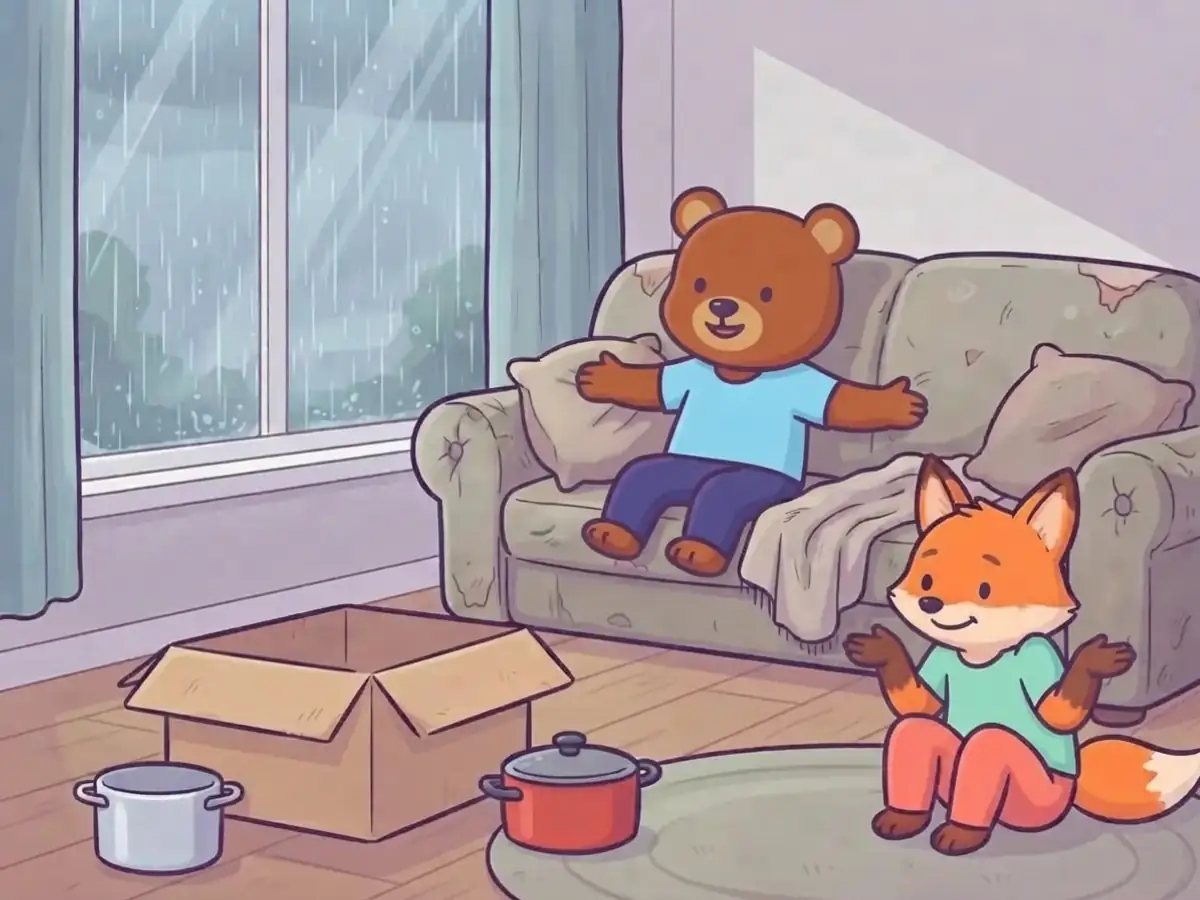
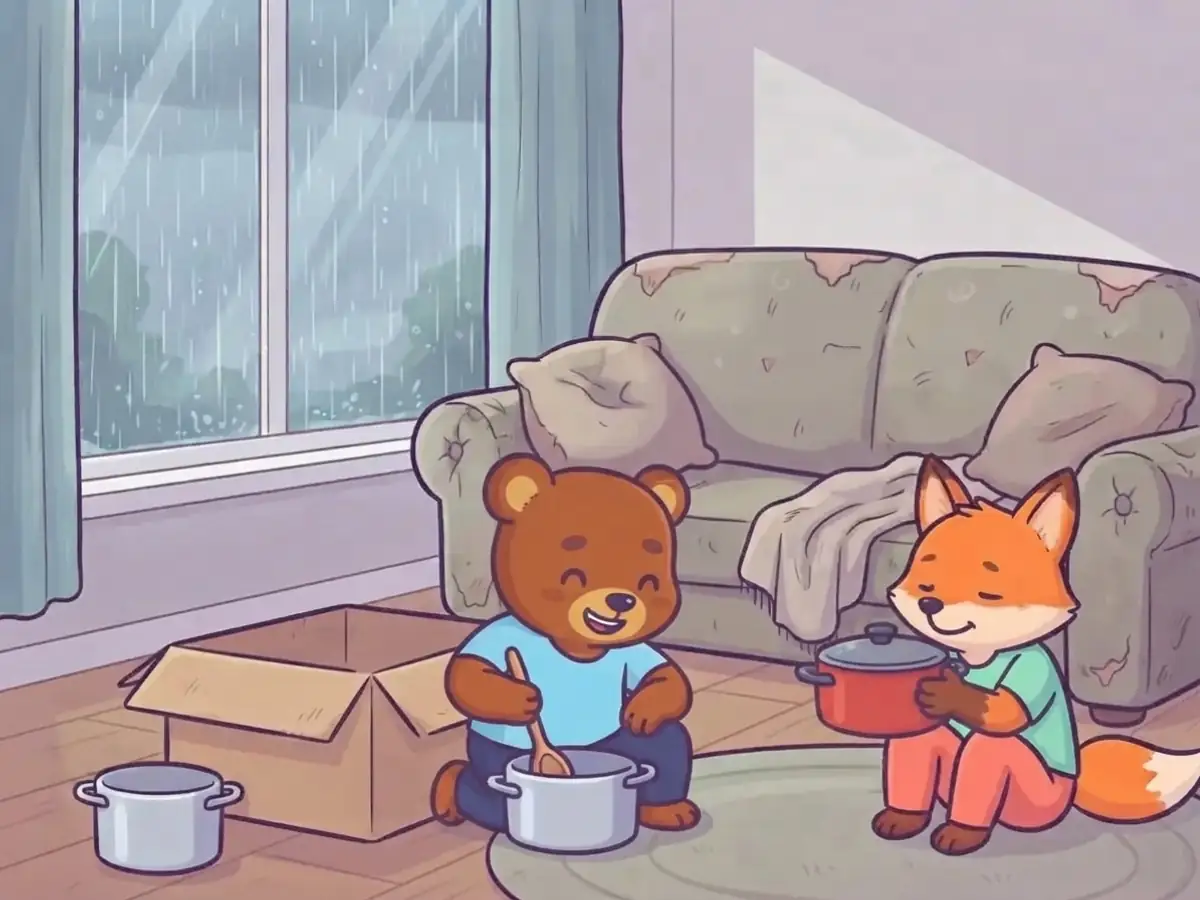
Gefühle: bored on a rainy day starts with cooking a rain soup together with the fox instead of only saying „Mir ist langweilig“
- step 1 is „Mit dem Fuchs Kochen spielen“ with the pots the first picture shows, its picture bored-1 drawn anew;
  the ear-pulling answer and the outro say so; changed lines told in German until translated (step null, outro left out)
- rule: saying a feeling is a good idea only where saying it changes something; where a feeling asks for something to
  do (boredom), the good idea is the doing, best creative play together
- pictures: the Lite model refills a place the prompt calls empty (a third pot three times)

Changed region(s): [[0.3392, 0.1867, 0.7708, 0.9644], [0.6475, 0.5911, 0.9558, 0.84]]

diff --git a/src/games/feelings/kita.hi.ts b/src/games/feelings/kita.hi.ts
@@ -883,12 +883,8 @@ export const SITUATIONS_HI: Partial<Record<SituationId, SituationText>> = {
     caption: "बाहर बारिश हो रही है, भालू को बोरियत हो रही है",
     intro: [{ narration: "बाहर बारिश हो रही है। छोटा भालू सोफ़े पर लेटा है।" }, { narration: "उसे बहुत बोरियत हो रही है!" }],
     steps: [
-      {
-        caption: "“मुझे बोरियत हो रही है” कहना",
-        question: "बारिश हो रही है। छोटा भालू क्या कर सकता है?",
-        beats: [{ narration: "छोटा भालू कहता है:", line: "मुझे बोरियत हो रही है!" }, { line: "मुझे भी। क्या करें?" }],
-        instead: { caption: "लोमड़ी का कान खींचना", answer: "हम्म, इससे लोमड़ी को दर्द होता है। इसकी जगह कहो: मुझे बोरियत हो रही है।" },
-      },
+      // „Mit dem Fuchs Kochen spielen“ is new in German (November 2026): told in German until translated.
+      null,
       {
         caption: "गुफ़ा बनाना",
         question: "अंदर क्या खेल सकते हैं? छोटा भालू क्या कर सकता है?",
@@ -902,7 +898,6 @@ export const SITUATIONS_HI: Partial<Record<SituationId, SituationText>> = {
         instead: { caption: "डिब्बा कुचलना", answer: "हम्म, अब डिब्बा टूट गया। इसकी जगह उससे एक गाड़ी बनाओ।" },
       },
     ],
-    outro: [{ narration: "बहुत बढ़िया! बोरियत से नए खेल बनते हैं। गुफ़ा, गाड़ी, और भी बहुत कुछ।" }],
     endCaption: "भालू और लोमड़ी डिब्बे की गाड़ी चलाते हैं",
   },
   empathy: {

diff --git a/src/games/feelings/kita.ru.ts b/src/games/feelings/kita.ru.ts
@@ -877,12 +877,8 @@ export const SITUATIONS_RU: Partial<Record<SituationId, SituationText>> = {
     caption: "На улице дождь, Мишке скучно",
     intro: [{ narration: "На улице идёт дождь. Мишка лежит на диване." }, { narration: "Ему так скучно!" }],
     steps: [
-      {
-        caption: "Сказать «Мне скучно»",
-        question: "Идёт дождь. Что может сделать Мишка?",
-        beats: [{ narration: "Мишка говорит:", line: "Мне скучно!" }, { line: "Мне тоже. Что будем делать?" }],
-        instead: { caption: "Дёрнуть Лисёнка за ухо", answer: "Хм, Лисёнку больно. Лучше скажи: Мне скучно." },
-      },
+      // „Mit dem Fuchs Kochen spielen“ is new in German (November 2026): told in German until translated.
+      null,
       {
         caption: "Построить шалаш",
         question: "Во что можно играть дома? Что может сделать Мишка?",
@@ -896,7 +892,6 @@ export const SITUATIONS_RU: Partial<Record<SituationId, SituationText>> = {
         instead: { caption: "Растоптать коробку", answer: "Хм, теперь коробка сломалась. Лучше сделай из неё машину." },
       },
     ],
-    outro: [{ narration: "Здорово! Из скуки рождаются идеи. Шалаш, машина и ещё много всего." }],
     endCaption: "Мишка и Лисёнок едут в машине из коробки",
   },
   empathy: {

diff --git a/src/games/feelings/kita.ar.ts b/src/games/feelings/kita.ar.ts
@@ -881,12 +881,8 @@ export const SITUATIONS_AR: Partial<Record<SituationId, SituationText>> = {
     caption: "في الخارج مطر، والدبدوب يشعر بالملل",
     intro: [{ narration: "في الخارج تمطر. الدبدوب مستلقٍ على الكنبة." }, { narration: "إنه يشعر بملل شديد!" }],
     steps: [
-      {
-        caption: "قول «أشعر بالملل»",
-        question: "إنها تمطر. ماذا يستطيع الدبدوب أن يفعل؟",
-        beats: [{ narration: "الدبدوب يقول:", line: "أشعر بالملل!" }, { line: "وأنا أيضًا. ماذا نفعل؟" }],
-        instead: { caption: "شدّ أذن الثعلب الصغير", answer: "همم، هذا يؤلم الثعلب الصغير. الأفضل أن يقول: أشعر بالملل." },
-      },
+      // „Mit dem Fuchs Kochen spielen“ is new in German (November 2026): told in German until translated.
+      null,
       {
         caption: "بناء كهف",
         question: "ماذا نلعب في الداخل؟ ماذا يستطيع الدبدوب أن يفعل؟",
@@ -900,7 +896,6 @@ export const SITUATIONS_AR: Partial<Record<SituationId, SituationText>> = {
         instead: { caption: "دعس الصندوق", answer: "همم، الآن الصندوق مكسور. الأفضل أن يصنع منه سيارة." },
       },
     ],
-    outro: [{ narration: "رائع! من الملل تأتي الأفكار. كهف، سيارة، وأشياء كثيرة أخرى." }],
     endCaption: "الدبدوب والثعلب الصغير يقودان سيارة الكرتون",
   },
   empathy: {

diff --git a/src/games/feelings/selbst.ts b/src/games/feelings/selbst.ts
@@ -713,10 +713,13 @@ export const SELF_SITUATIONS: Situation[] = [
     intro: [{ narration: "Draußen regnet es. Der kleine Bär liegt auf dem Sofa." }, { narration: "Ihm ist so langweilig!" }],
     steps: [
       {
-        caption: "„Mir ist langweilig“ sagen",
+        caption: "Mit dem Fuchs Kochen spielen",
         question: "Es regnet. Was kann der kleine Bär tun?",
-        beats: [{ narration: "Der kleine Bär sagt:", line: "Mir ist langweilig!" }, { line: "Mir auch. Was machen wir?" }],
-        instead: { caption: "Den Fuchs am Ohr ziehen", answer: "Hmm, das tut dem Fuchs weh. Sag lieber: Mir ist langweilig.", sound: "aua" },
+        beats: [
+          { narration: "Er holt die Töpfe und kocht mit dem Fuchs eine Regensuppe. Rühren, rühren!", sound: "pop" },
+          { line: "Mmh, lecker! Jetzt koche ich!" },
+        ],
+        instead: { caption: "Den Fuchs am Ohr ziehen", answer: "Hmm, das tut dem Fuchs weh. Spiel lieber was mit ihm.", sound: "aua" },
       },
       {
         caption: "Eine Höhle bauen",
@@ -731,7 +734,7 @@ export const SELF_SITUATIONS: Situation[] = [
         instead: { caption: "Karton zertreten", answer: "Hmm, jetzt ist der Karton kaputt. Mach lieber ein Auto daraus." },
       },
     ],
-    outro: [{ narration: "Toll! Aus Langeweile werden Ideen. Höhle, Auto, und noch viel mehr.", sound: "cheer" }],
+    outro: [{ narration: "Toll! Aus Langeweile werden Ideen: zusammen kochen, eine Höhle bauen, Auto fahren.", sound: "cheer" }],
     endCaption: "Bär und Fuchs fahren im Karton-Auto",
   },
   {

diff --git a/src/content/ideas/languageStatus.ts b/src/content/ideas/languageStatus.ts
@@ -209,7 +209,7 @@ export const LANGUAGE_STATUS: LanguageStatusRow[] = [
         label: "Mehr Gefühle",
         recorded: true,
         languages: { de: "done", en: "partial", zh: "partial", hi: "partial", es: "partial", ar: "partial", ru: "partial" },
-        note: "24 Geschichten in selbst.ts – enttäuscht, eifersüchtig, Ekel, peinlich, aufgeregt und 19 weitere vom Spielplatz bis zum lauten Knall –, alle auf Deutsch von ElevenLabs gesprochen und übersetzt in kita.<Sprache>.ts (3. November 2026); die Aufnahmen der anderen Sprachen fehlen noch. Beim lauten Knall ist der dritte Schritt neu („Mit dem Fuchs Kuchen essen“ statt „Kleinen Ballon quietschen lassen“) und das Ende geändert (4. November 2026): nur Deutsch, noch nicht aufgenommen.",
+        note: "24 Geschichten in selbst.ts – enttäuscht, eifersüchtig, Ekel, peinlich, aufgeregt und 19 weitere vom Spielplatz bis zum lauten Knall –, alle auf Deutsch von ElevenLabs gesprochen und übersetzt in kita.<Sprache>.ts (3. November 2026); die Aufnahmen der anderen Sprachen fehlen noch. Beim lauten Knall ist der dritte Schritt neu („Mit dem Fuchs Kuchen essen“ statt „Kleinen Ballon quietschen lassen“) und das Ende geändert (4. November 2026), ebenso bei der Langeweile am Regentag der erste Schritt („Mit dem Fuchs Kochen spielen“ statt „„Mir ist langweilig“ sagen“) und das Ende: nur Deutsch, noch nicht aufgenommen.",
       },
       {
         label: "Buch, Gruppen und Rollen",

diff --git a/src/content/ideas/c-feelings.ts b/src/content/ideas/c-feelings.ts
@@ -263,7 +263,7 @@ export const feelingsIdeas: IdeaArea = {
       id: "C-26",
       emoji: "🌧",
       title: "Langeweile am Regentag",
-      text: "Erstes Bild: Draußen regnet es, der kleine Bär liegt quer auf dem Sofa und starrt an die Decke; im Raum eine Decke, Kissen, ein Karton und Töpfe. 1) „Den Fuchs ärgern, damit was passiert“ oder sagen: „Mir ist langweilig.“ 2) „Mit den Töpfen gegen die Scheibe hauen“ (Krach) oder aus Decke und Kissen eine Höhle bauen. 3) „Den Karton zertreten“ oder den Karton zum Auto machen und losfahren. Kein Bildschirm als Ausweg.",
+      text: "Erstes Bild: Draußen regnet es, der kleine Bär liegt quer auf dem Sofa und starrt an die Decke; im Raum eine Decke, Kissen, ein Karton und Töpfe. 1) „Den Fuchs ärgern, damit was passiert“ oder mit dem Fuchs Kochen spielen (mit den Töpfen eine Regensuppe kochen; „Mir ist langweilig“ sagen war zu wenig, Rückmeldung November 2026). 2) „Mit den Töpfen gegen die Scheibe hauen“ (Krach) oder aus Decke und Kissen eine Höhle bauen. 3) „Den Karton zertreten“ oder den Karton zum Auto machen und losfahren. Kein Bildschirm als Ausweg.",
       why: "Langeweile ist das Gefühl, bei dem Eltern am schnellsten zum Tablet greifen. Die Szene zeigt, dass aus Langeweile Ideen wachsen – passt zu „Die Sendung ist zu Ende“ (C-02).",
       effort: "S",
       done: true,

diff --git a/src/games/feelings/kita.es.ts b/src/games/feelings/kita.es.ts
@@ -889,12 +889,8 @@ export const SITUATIONS_ES: Partial<Record<SituationId, SituationText>> = {
     caption: "Afuera llueve, Osito se aburre",
     intro: [{ narration: "Afuera llueve. Osito está acostado en el sillón." }, { narration: "¡Se aburre muchísimo!" }],
     steps: [
-      {
-        caption: "Decir «¡Me aburro!»",
-        question: "Está lloviendo. ¿Qué puede hacer Osito?",
-        beats: [{ narration: "Osito dice:", line: "¡Me aburro!" }, { line: "Yo también. ¿Qué hacemos?" }],
-        instead: { caption: "Jalarle la oreja a Zorrito", answer: "Mmm, eso le duele a Zorrito. Mejor di: Me aburro." },
-      },
+      // „Mit dem Fuchs Kochen spielen“ is new in German (November 2026): told in German until translated.
+      null,
       {
         caption: "Hacer una cueva",
         question: "¿A qué se puede jugar adentro? ¿Qué puede hacer Osito?",
@@ -908,7 +904,6 @@ export const SITUATIONS_ES: Partial<Record<SituationId, SituationText>> = {
         instead: { caption: "Aplastar la caja", answer: "Mmm, ahora la caja está rota. Mejor haz un carro con ella." },
       },
     ],
-    outro: [{ narration: "¡Genial! Del aburrimiento salen ideas. Cueva, carro, y mucho más." }],
     endCaption: "Osito y Zorrito manejan el carro de cartón",
   },
   empathy: {

diff --git a/src/games/feelings/kita.en.ts b/src/games/feelings/kita.en.ts
@@ -908,12 +908,8 @@ export const SITUATIONS_EN: Partial<Record<SituationId, SituationText>> = {
     caption: "It's raining outside, Little Bear is bored",
     intro: [{ narration: "It's raining outside. Little Bear is lying on the sofa." }, { narration: "He is so bored!" }],
     steps: [
-      {
-        caption: "Say “I'm bored”",
-        question: "It's raining. What can Little Bear do?",
-        beats: [{ narration: "Little Bear says:", line: "I'm bored!" }, { line: "Me too. What shall we do?" }],
-        instead: { caption: "Pull Little Fox's ear", answer: "Hmm, that hurts Little Fox. Say instead: I'm bored." },
-      },
+      // „Mit dem Fuchs Kochen spielen“ is new in German (November 2026): told in German until translated.
+      null,
       {
         caption: "Build a den",
         question: "What can you play indoors? What can Little Bear do?",
@@ -927,7 +923,6 @@ export const SITUATIONS_EN: Partial<Record<SituationId, SituationText>> = {
         instead: { caption: "Stomp the box flat", answer: "Hmm, now the box is broken. Make a car out of it instead." },
       },
     ],
-    outro: [{ narration: "Great! Being bored turns into ideas. A den, a car, and lots more." }],
     endCaption: "Little Bear and Little Fox ride in the box car",
   },
   empathy: {

diff --git a/src/games/feelings/kita.zh.ts b/src/games/feelings/kita.zh.ts
@@ -857,12 +857,8 @@ export const SITUATIONS_ZH: Partial<Record<SituationId, SituationText>> = {
     caption: "外面在下雨，小熊好无聊",
     intro: [{ narration: "外面在下雨。小熊躺在沙发上。" }, { narration: "他好无聊啊！" }],
     steps: [
-      {
-        caption: "说“我好无聊”",
-        question: "下雨了。小熊可以怎么做？",
-        beats: [{ narration: "小熊说：", line: "我好无聊！" }, { line: "我也是。我们玩什么呢？" }],
-        instead: { caption: "揪小狐狸的耳朵", answer: "嗯，那样小狐狸会疼。还是说：我好无聊。" },
-      },
+      // „Mit dem Fuchs Kochen spielen“ is new in German (November 2026): told in German until translated.
+      null,
       {
         caption: "搭一个小窝",
         question: "在家里可以玩什么？小熊可以怎么做？",
@@ -876,7 +872,6 @@ export const SITUATIONS_ZH: Partial<Record<SituationId, SituationText>> = {
         instead: { caption: "踩扁纸箱", answer: "嗯，现在纸箱坏了。还是把它变成汽车吧。" },
       },
     ],
-    outro: [{ narration: "真棒！无聊会变成好点子。小窝，汽车，还有好多好多。" }],
     endCaption: "小熊和小狐狸坐纸箱汽车",
   },
   empathy: {

diff --git a/src/games/feelings/bilder/README.md b/src/games/feelings/bilder/README.md
@@ -46,7 +46,7 @@ Fenster, Kamera. Springt der Hintergrund, schaut ein Kleinkind auf das Neue stat
 - **Was sich bewegt, bleibt auch am alten Platz:** Verlässt eine Figur oder ein Ding seinen Platz aus dem ersten
   Bild, malt das Lite-Modell es oft dort noch einmal – „each exactly once“ hin oder her. In der zweiten Runde kamen so
   der kleine Bär oben auf der Rutsche und zugleich im Sandkasten, ein zweiter Fuchs, zwei Plüschhasen, die Ente auf dem
-  Regal und in der Pfote, der Kuchen auf dem Tisch und am Boden. Der Prompt sagt darum, dass der alte Platz jetzt leer
+  Regal und in der Pfote, der Kuchen auf dem Tisch und am Boden. Auch ein Platz, den der Prompt ausdrücklich leer nennt, füllt es oft wieder: beim Kochen am Regentag (`bored-1`) stand dreimal ein dritter Topf da, wo der aufgehobene rote gestanden hatte. Lieber eine Handlung wählen, bei der nichts seinen Platz verlässt (der Bär kniet sich zum Ding hin), und nach drei Versuchen das beste Bild nehmen. Der Prompt sagt darum, dass der alte Platz jetzt leer
   ist („the slide is empty“, „he has taken the bunny from the sofa, so the sofa is empty now“), und „exactly ONE … in
   the whole picture“; bei vielen Kindern (die Party) jedes mit „only ONE“. Ebenso ausdrücklich: Pfoten um den Mund
   „holds nothing“ (sonst ein Megafon), ein Schreck „no speech bubble, no sound word“ (sonst ein „Ah!“), und was platzt
@@ -744,7 +744,7 @@ am Boden, der Fuchs auf dem Teppich, ein großes Fenster.
 | Datei            | Prompt                                                                                                                                                                                                                                                                                                                                                                   |
 | ---------------- | ------------------------------------------------------------------------------------------------------------------------------------------------------------------------------------------------------------------------------------------------------------------------------------------------------------------------------------------------------------------------ |
 | `bored-passiert` | Langeweile am Regentag: A living room on a rainy day; rain streams down a big window. The little bear lies upside down across the sofa, legs over the backrest, staring at the ceiling, bored. On the sofa a blanket and two cushions. On the floor a big empty cardboard box and two cooking pots. The fox sits on the rug, also bored. Each exactly once; nobody else. |
-| `bored-1`        | „„Mir ist langweilig“ sagen“ – The little bear himself sits up and says it to the fox, arms spread; the fox shrugs and smiles.                                                                                                                                                                                                                                           |
+| `bored-1`        | „Mit dem Fuchs Kochen spielen“ – The sofa is empty now. Exactly two pots: the little bear himself kneels beside the silver pot, which stays where it stands at the bottom left, and stirs in it with a wooden spoon, beaming; the fox sits close beside him with the red pot and pretends to taste, smiling.                                                             |
 | `bored-2`        | „Eine Höhle bauen“ – The little bear himself drapes the blanket over the sofa and cushions to make a cave, and peeks out of it, delighted.                                                                                                                                                                                                                               |
 | `bored-3`        | „Karton-Auto fahren“ – The little bear himself sits in the cardboard box, holding a pot lid as steering wheel, happy; the fox climbs in behind him.                                                                                                                                                                                                                      |
 | `bored-nein`     | „Den Fuchs am Ohr ziehen“ – The little bear pulls the fox's ear; the fox cries out.                                                                                                                                                                                                                                                                                      |

diff --git a/src/games/feelings/CLAUDE.md b/src/games/feelings/CLAUDE.md
@@ -73,6 +73,11 @@ bear has the feeling and
 helps himself (a body trick, saying how he feels, doing something else); the feeling itself is never the not-so-good
 idea, only what hurts someone or breaks something is (hiding when embarrassed is the feeling, so its not-so-good idea is
 playing on in wet trousers).
+Saying how one feels is a good idea only where saying it changes something (it brings comfort, stops someone, asks for
+help). Where the feeling asks for something to do – bored on a rainy day – the good idea is the doing itself, best
+something creative played together with what the picture shows (cooking a rain soup with the pots, a blanket cave, a
+box car), never only naming the feeling („Mir ist langweilig“ sagen was too little a way out, user feedback, November
+2026).
 
 The bear stands for the child, and at home whoever comforts it is anyone there –
 usually a parent – so texts never say „Kind“. A feeling's title names the scene in
